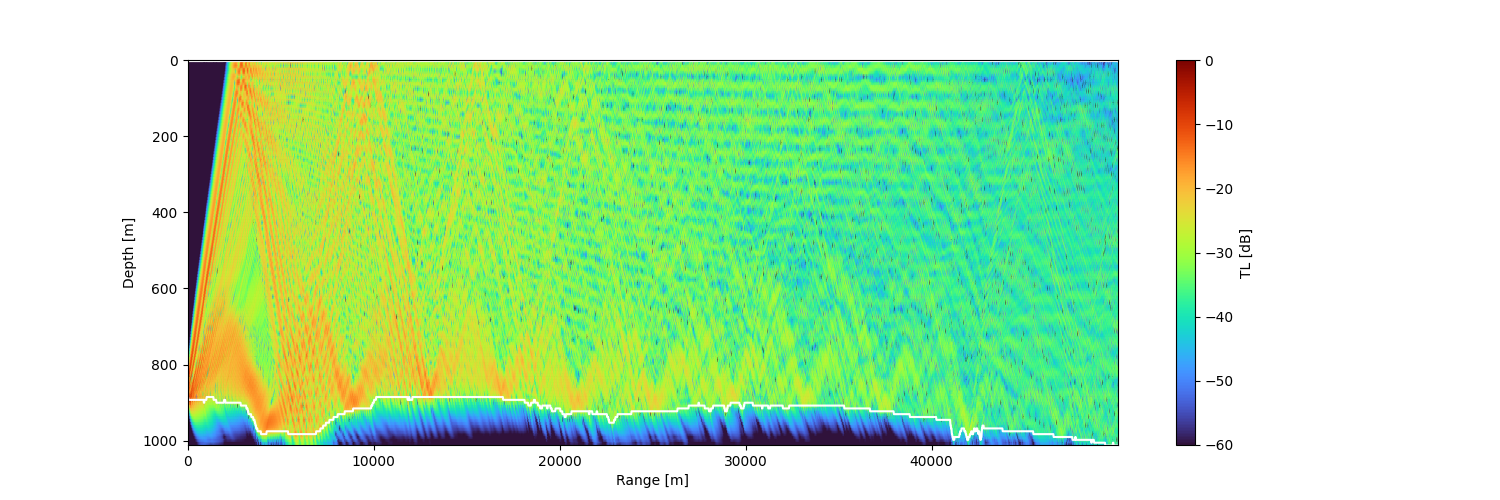
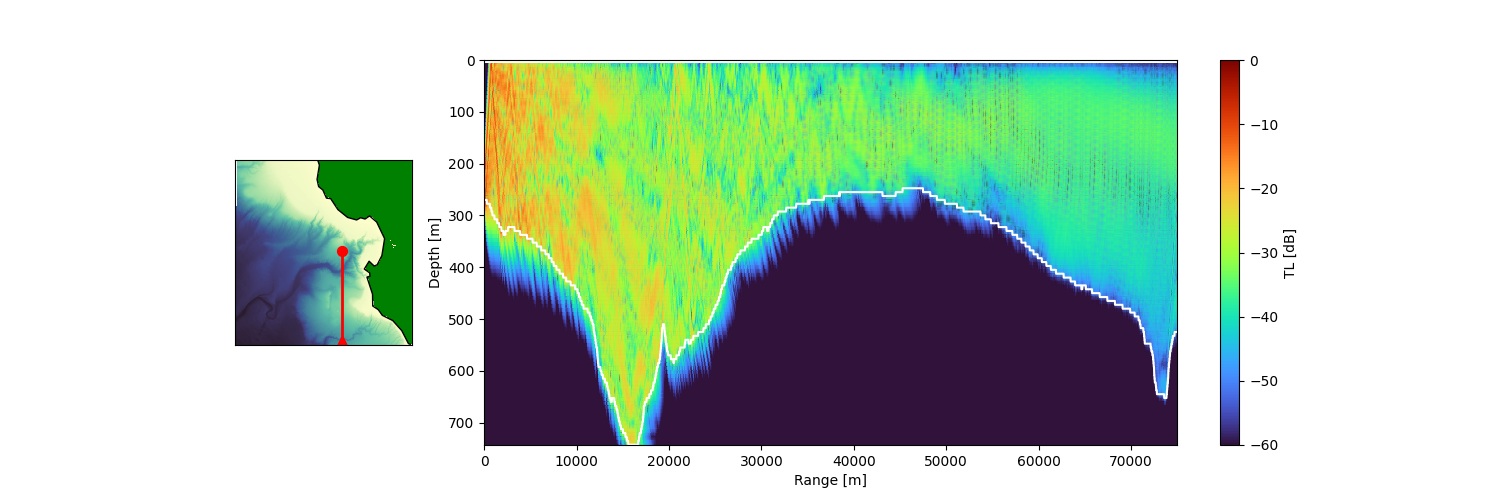
Added map plotting for PWE solver

diff --git a/PWE/ParabolicWaveEquationSolver.py b/PWE/ParabolicWaveEquationSolver.py
@@ -7,6 +7,8 @@ import matplotlib.pyplot as plt
 from matplotlib.ticker import FuncFormatter
 import sys
 import os
+import cmocean
+from mpl_toolkits import basemap
 
 sys.path.append(os.path.abspath('../acoustic-models'))
 
@@ -251,13 +253,52 @@ if __name__ == "__main__":
     mars_coords = np.array([36 + 42.7481/60, -122 - 11.2139/60])
     topo_radials = TopographyRadials(center_coords=mars_coords, topo_file=topo_file)
 
-    bearings = np.arange(-180, 0, 15)
+    bearings = np.arange(-180, 0, 1) # degrees
     for i, th in enumerate(bearings):
 
-        environment = Water(f=50, topography_method='radial', max_range = 50e3, z_lims=[0, 3e3], bearing = np.array([th]))
+        layout_format = [['.', '.', 'B', 'B', 'B', 'B', 'B', 'B'],
+                         ['A', 'A', 'B', 'B', 'B', 'B', 'B', 'B'],
+                         ['A', 'A', 'B', 'B', 'B', 'B', 'B', 'B'],
+                         ['.', '.', 'B', 'B', 'B', 'B', 'B', 'B']]
+        fig, ax = plt.subplot_mosaic(layout_format, figsize = (15, 5))
+
+        m = basemap.Basemap(llcrnrlon=topo_radials.box_bounds.left,
+            llcrnrlat=topo_radials.box_bounds.bottom,
+            urcrnrlon=topo_radials.box_bounds.right,
+            urcrnrlat=topo_radials.box_bounds.top,
+            projection = 'lcc', resolution = 'i',
+            lat_1 = topo_radials.box_bounds.bottom,
+            lat_0 = mars_coords[0], lon_0 = mars_coords[1], ax = ax['A'])
+        
+        m.drawcoastlines()
+        m.fillcontinents(color='green')
+
+        r_max = 75e3
+        dr = 1e3
+        r_line = np.arange(0, r_max, dr)
+        lat_line, lon_line = topo_radials.get_destination_point(r_line, np.array([th]))
+
+        topo = topo_radials.topo_data
+        topo[topo < 0] = np.nan
+        topo[topo > 3e3] = np.nan
+        cmap = cmocean.cm.deep
+
+        m.pcolormesh(topo_radials.LON, topo_radials.LAT, topo, shading = 'nearest', cmap = cmap, latlon = True)
+        m.plot(lon_line, lat_line, 'r', linewidth = 2, latlon = True)
+        m.scatter(mars_coords[1], mars_coords[0], s = 50, marker = 'o', color = 'r', latlon = True)
+        m.scatter(lon_line[-1], lat_line[-1], s = 40, marker = '^', color = 'r', latlon=True)
+
+        # # ax['A'].set_xticks([])
+        # # ax['A'].set_yticks([])
+        # ax['A'].margins(0)
+
+        environment = Water(f=50, topography_method='radial', max_range = r_max, z_lims=[0, 3e3], bearing = np.array([th]))
         pwe_solver = ParabolicWaveEquationSolver(environment=environment)
         pwe_solver.solve(u0_gaussian_generalized, z_s = environment.topography[0] - environment.c_0/50)
 
-        pwe_solver.plot()
+        pwe_solver.plot(fig = fig, ax = ax['B'])
+        ax['B'].scatter(0, environment.z_lims[-1], s = 50, marker = 'o', color = 'r')
+        ax['B'].scatter(r_max, environment.z_lims[-1], s = 50, marker = '^', color = 'r')
+        plt.tight_layout()
 
-    plt.show()
+        plt.show()

diff --git a/SimulatedAnnealing.py b/SimulatedAnnealing.py
@@ -59,7 +59,7 @@ class SAParallel:
             self.optimizers.append(opt)
 
         total_calls = 0
-        max_calls = 1e6
+        max_calls = 1e6 * self.n_opt
         self.swap_ratio = np.empty(self.window_length)
         best_min = np.inf
         iter_since_improvement = 0
@@ -87,14 +87,14 @@ class SAParallel:
                 temps = np.array([opt.temperature[0] for opt in self.optimizers])
                 temps = temps / np.max(temps)
                 temps_str = np.array2string(temps, formatter={'float_kind':lambda x: f"{x:.2f}"})
-                print(f"\rMean Swap Ratio: {np.nanmean(self.swap_ratio):.2f} | Total Calls: {total_calls} | Best Energy: {current_min_opt.global_min_energy:.4f} | T: {temps_str} | Progress: {iter_since_improvement}/{self.optimizers[0].ndim * 5}", end = "")
+                print(f"\rMean Swap Ratio: {np.nanmean(self.swap_ratio):.2f} | Total Calls: {total_calls} | Best Energy: {current_min_opt.global_min_energy:.4f} | Progress: {iter_since_improvement}/{self.optimizers[0].ndim * 5}", end = "")
                 
                 if best_min == current_min_opt.global_min_energy:
                     iter_since_improvement += 1
                 else:
                     iter_since_improvement = 0
 
-                if np.nanmean(self.swap_ratio) < 0.01 or iter_since_improvement >= self.optimizers[0].ndim * 5:
+                if np.nanmean(self.swap_ratio) < 1e-5 or iter_since_improvement >= self.optimizers[0].ndim * 5:
                     continue_flag = False
 
         return current_min_opt

diff --git a/PWE/GenerateRadialTopography.py b/PWE/GenerateRadialTopography.py
@@ -20,14 +20,15 @@ class TopographyRadials():
             # topo_data = src.read(1)
             self.box_bounds = src.bounds
             
-            self.lat = np.linspace(self.box_bounds.bottom, self.box_bounds.top, src.shape[1])
-            self.lon = np.linspace(self.box_bounds.left, self.box_bounds.right, src.shape[0])
-            self.LAT, self.LON = np.meshgrid(self.lat, self.lon)
+            self.lat = np.linspace(self.box_bounds.bottom, self.box_bounds.top, src.shape[0])
+            self.lon = np.linspace(self.box_bounds.left, self.box_bounds.right, src.shape[1])
+            self.LON, self.LAT = np.meshgrid(self.lon, self.lat)
 
-            self.topo_data = np.abs(src.read(1) * 0.3048) # convert to m, and +depth in direction of -z
-
+            # convert to m, and +depth in direction of -z
+            self.topo_data = (-src.read(1) * 0.3048)[::-1, :] # shape (lat, lon)
+            
         # lat, lon in degrees, depth in ft. 
-        self.sample_func = scipy.interpolate.RegularGridInterpolator((self.lat[::-1], self.lon), self.topo_data.T)
+        self.sample_func = scipy.interpolate.RegularGridInterpolator((self.lat, self.lon), self.topo_data)
         self.center_depth = self.sample_func(center_coords)
 
     def generate_radials(self, 

diff --git a/AcousticBeamforming/src/ArrayOptimization.py b/AcousticBeamforming/src/ArrayOptimization.py
@@ -17,7 +17,7 @@ from SimulatedAnnealing import SAOptimization, SAParallel
 
 # This is a problem that is perfect for simulated annealing, since the objective function is discrete valued and non-differentiable
 
-num_elements = 16
+num_elements = 10
 
 now = datetime.now().strftime("%Y%m%d-%H%M%S")
 save_file = os.path.join(os.path.dirname(os.path.abspath(__file__)), 'Data', 'ArrayOpt_'+now)
@@ -213,7 +213,7 @@ def search_scaling(state, state_inc):
 if __name__ == "__main__":
     np.random.seed(13)
 
-    parallel_opt = SAParallel(n_opt=5, temp_ratio=10)
+    parallel_opt = SAParallel(n_opt=20, temp_ratio=10)
     min_opt = parallel_opt.run(func = objective_function_slow, ndim = np.shape(state_inc)[0], state_lims = state_lims, state_inc = state_inc, search_scaling_func = search_scaling)
     optimal_state = min_opt.global_min_state
 
